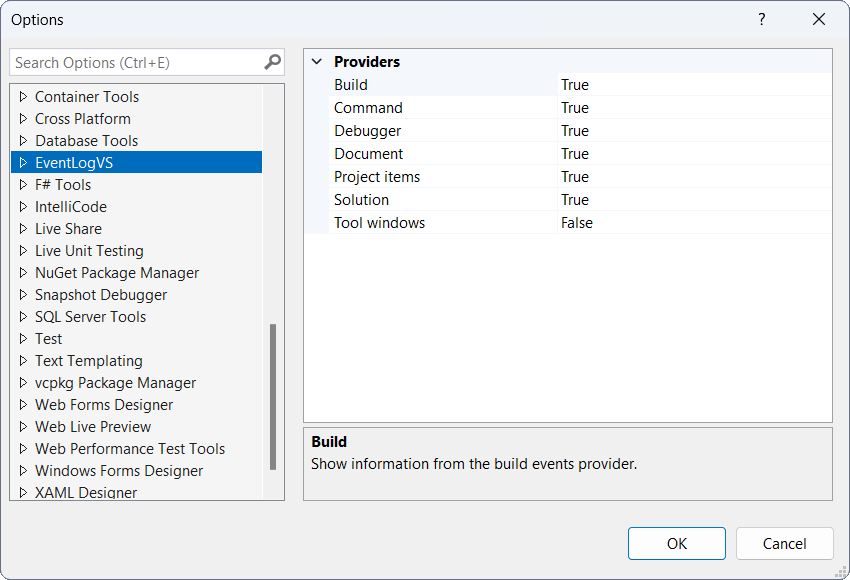
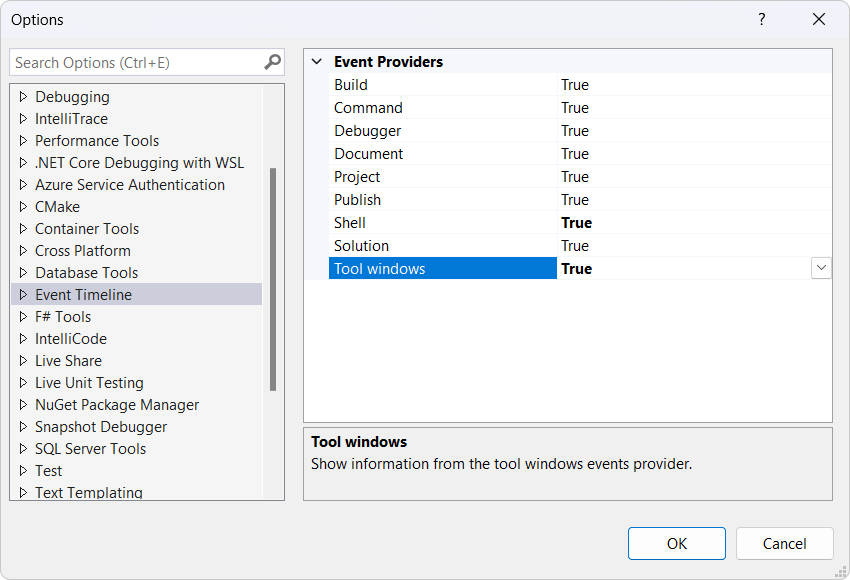
Tweaks and new screenshots [release]

diff --git a/src/Providers/SolutionProvider.cs b/src/Providers/SolutionProvider.cs
@@ -13,18 +13,18 @@ namespace EventLogVS.Providers
             VS.Events.SolutionEvents.OnAfterBackgroundSolutionLoadComplete += () => { Write($"Solution loaded"); };
             VS.Events.SolutionEvents.OnAfterCloseFolder += (folder) => { Write($"Project closed: {Path.GetDirectoryName(folder)}"); };
             VS.Events.SolutionEvents.OnAfterCloseSolution += () => { Write($"Solution closed"); };
-            VS.Events.SolutionEvents.OnAfterLoadProject += (project) => { Write($"Project loaded: {project.Name}"); };
+            VS.Events.SolutionEvents.OnAfterLoadProject += (project) => { Write($"Project loaded: {project.Text}"); };
             VS.Events.SolutionEvents.OnAfterMergeSolution += () => { Write($"Solution merged"); };
             VS.Events.SolutionEvents.OnAfterOpenFolder += (folder) => { Write($"Project opened: {Path.GetDirectoryName(folder)}"); };
-            VS.Events.SolutionEvents.OnAfterOpenProject += (project) => { Write($"Project opened: {project.Name}"); };
-            VS.Events.SolutionEvents.OnAfterOpenSolution += (solution) => { Write($"Solution {solution.Name} opened"); };
-            VS.Events.SolutionEvents.OnAfterRenameProject += (project) => { Write($"Project renamed: {project.Name}"); };
+            VS.Events.SolutionEvents.OnAfterOpenProject += (project) => { Write($"Project opened: {project.Text}"); };
+            VS.Events.SolutionEvents.OnAfterOpenSolution += (solution) => { Write($"Solution {solution.Text} opened"); };
+            VS.Events.SolutionEvents.OnAfterRenameProject += (project) => { Write($"Project renamed: {project.Text}"); };
             VS.Events.SolutionEvents.OnBeforeCloseFolder += (folder) => { Write($"Project closing: {Path.GetDirectoryName(folder)}"); };
-            VS.Events.SolutionEvents.OnBeforeCloseProject += (project) => { Write($"Project closing: {project.Name}"); };
+            VS.Events.SolutionEvents.OnBeforeCloseProject += (project) => { Write($"Project closing: {project.Text}"); };
             VS.Events.SolutionEvents.OnBeforeCloseSolution += () => { Write($"Solution closing"); };
             VS.Events.SolutionEvents.OnBeforeOpenProject += (project) => { Write($"Project opening: {Path.GetFileName(project)}"); };
             VS.Events.SolutionEvents.OnBeforeOpenSolution += (solution) => { Write($"Solution opening: {Path.GetFileName(solution)}"); };
-            VS.Events.SolutionEvents.OnBeforeUnloadProject += (project) => { Write($"Project unloading: {project.Name}"); };
+            VS.Events.SolutionEvents.OnBeforeUnloadProject += (project) => { Write($"Project unloading: {project.Text}"); };
 
             return Task.CompletedTask;
         }

diff --git a/src/Options/General.cs b/src/Options/General.cs
@@ -38,10 +38,16 @@ namespace EventLogVS
         public bool EnableDocumentProvider { get; set; } = true;
 
         [Category(_category)]
-        [DisplayName("Project items")]
-        [Description("Show information from the project items events provider.")]
+        [DisplayName("Project")]
+        [Description("Show information from the project events provider.")]
         [DefaultValue(true)]
-        public bool EnableProjectItemsProvider { get; set; } = true;
+        public bool EnableProjectProvider { get; set; } = true;
+
+        [Category(_category)]
+        [DisplayName("Publish")]
+        [Description("Show information from the publish events provider.")]
+        [DefaultValue(true)]
+        public bool EnablePublishProvider { get; set; } = true;
 
         [Category(_category)]
         [DisplayName("Solution")]
@@ -50,15 +56,15 @@ namespace EventLogVS
         public bool EnableSolutionProvider { get; set; } = true;
 
         [Category(_category)]
-        [DisplayName("Tool windows")]
-        [Description("Show information from the tool windows events provider.")]
-        [DefaultValue(false)]
-        public bool EnableWindowsProvider { get; set; }
-
-        [Category(_category)]
         [DisplayName("Shell")]
         [Description("Show information from the shell events provider.")]
         [DefaultValue(false)]
         public bool EnableShellProvider { get; set; }
+
+        [Category(_category)]
+        [DisplayName("Tool windows")]
+        [Description("Show information from the tool windows events provider.")]
+        [DefaultValue(false)]
+        public bool EnableWindowsProvider { get; set; }
     }
 }

diff --git a/src/Providers/ShellProvider.cs b/src/Providers/ShellProvider.cs
@@ -1,12 +1,17 @@
-namespace EventLogVS.Providers
+using EnvDTE;
+using EnvDTE80;
+
+namespace EventLogVS.Providers
 {
     internal class ShellProvider : BaseProvider<ShellProvider>
     {
+        private DTEEvents _events;
+
         public override string Name => "Shell";
 
         public override bool IsEnabled => General.Instance.EnableShellProvider;
 
-        protected override Task InitializeAsync()
+        protected override async Task InitializeAsync()
         {
             VS.Events.ShellEvents.EnvironmentColorChanged += () => { Write($"Environment color changed"); };
 
@@ -15,7 +20,14 @@
             VS.Events.ShellEvents.ShellAvailable += () => { Write($"Shell available"); };
             VS.Events.ShellEvents.ShutdownStarted += () => { Write($"Shutdown started"); };
 
-            return Task.CompletedTask;
+            await ThreadHelper.JoinableTaskFactory.SwitchToMainThreadAsync();
+
+            DTE2 dte = await VS.GetServiceAsync<DTE, DTE2>();
+            _events = (dte.Events as Events2).DTEEvents;
+            
+            _events.ModeChanged += (reason) => { Write($"Mode changed to {reason}"); };
+            _events.OnStartupComplete += () => { Write($"Startup complete"); };
+            _events.OnMacrosRuntimeReset += () => { Write($"Macro runtime reset"); };
         }
 
         private static string Result(bool visible)

diff --git a/src/Providers/ProjectProvider.cs b/src/Providers/ProjectProvider.cs
@@ -3,17 +3,17 @@ using System.Linq;
 
 namespace EventLogVS.Providers
 {
-    internal class ProjectItemProvider : BaseProvider<ProjectItemProvider>
+    internal class ProjectProvider : BaseProvider<ProjectProvider>
     {
-        public override string Name => "Project item";
+        public override string Name => "Project";
 
-        public override bool IsEnabled => General.Instance.EnableProjectItemsProvider;
+        public override bool IsEnabled => General.Instance.EnableProjectProvider;
 
         protected override Task InitializeAsync()
         {
             VS.Events.ProjectItemsEvents.AfterAddProjectItems += (items) =>
             {
-                Write($"Project item(s) added: ({string.Join(",", items.Select(i => Path.GetFileName(i.Name)))}");
+                Write($"Project item(s) added: ({string.Join(",", items.Select(i => Path.GetFileName(i.Name)))})");
             };
 
             VS.Events.ProjectItemsEvents.AfterRemoveProjectItems += (items) =>

diff --git a/src/Providers/PublishProvider.cs b/src/Providers/PublishProvider.cs
@@ -1,0 +1,30 @@
+using EnvDTE;
+using EnvDTE80;
+
+namespace EventLogVS.Providers
+{
+    internal class PublishProvider : BaseProvider<PublishProvider>
+    {
+        private PublishEvents _events;
+
+        public override string Name => "Publish";
+
+        public override bool IsEnabled => General.Instance.EnablePublishProvider;
+
+        protected override async Task InitializeAsync()
+        {
+            await ThreadHelper.JoinableTaskFactory.SwitchToMainThreadAsync();
+
+            DTE2 dte = await VS.GetServiceAsync<DTE, DTE2>();
+            _events = (dte.Events as Events2).PublishEvents;
+
+            _events.OnPublishBegin += (ref bool Continue) => { Write("Publish begin"); };
+            _events.OnPublishDone += (success) => { Write($"Publish done: {Result(success)}"); };
+        }
+
+        private static string Result(bool success)
+        {
+            return success ? "success" : "failed";
+        }
+    }
+}

diff --git a/src/EventLogVSPackage.cs b/src/EventLogVSPackage.cs
@@ -27,7 +27,8 @@ namespace EventLogVS
             await CommandProvider.InitializeAsync(pane);
             await DebugProvider.InitializeAsync(pane);
             await DocumentProvider.InitializeAsync(pane);
-            await ProjectItemProvider.InitializeAsync(pane);
+            await ProjectProvider.InitializeAsync(pane);
+            await PublishProvider.InitializeAsync(pane);
             await ShellProvider.InitializeAsync(pane);
             await SolutionProvider.InitializeAsync(pane);
             await WindowProvider.InitializeAsync(pane);

diff --git a/src/Providers/CommandProvider.cs b/src/Providers/CommandProvider.cs
@@ -44,6 +44,7 @@ namespace EventLogVS.Providers
             "Edit.MoveSelectedLinesUp",
             "Edit.PageUp",
             "Edit.PageDown",
+            "Edit.BreakLine",
         };
 
         public override string Name => "Command";
